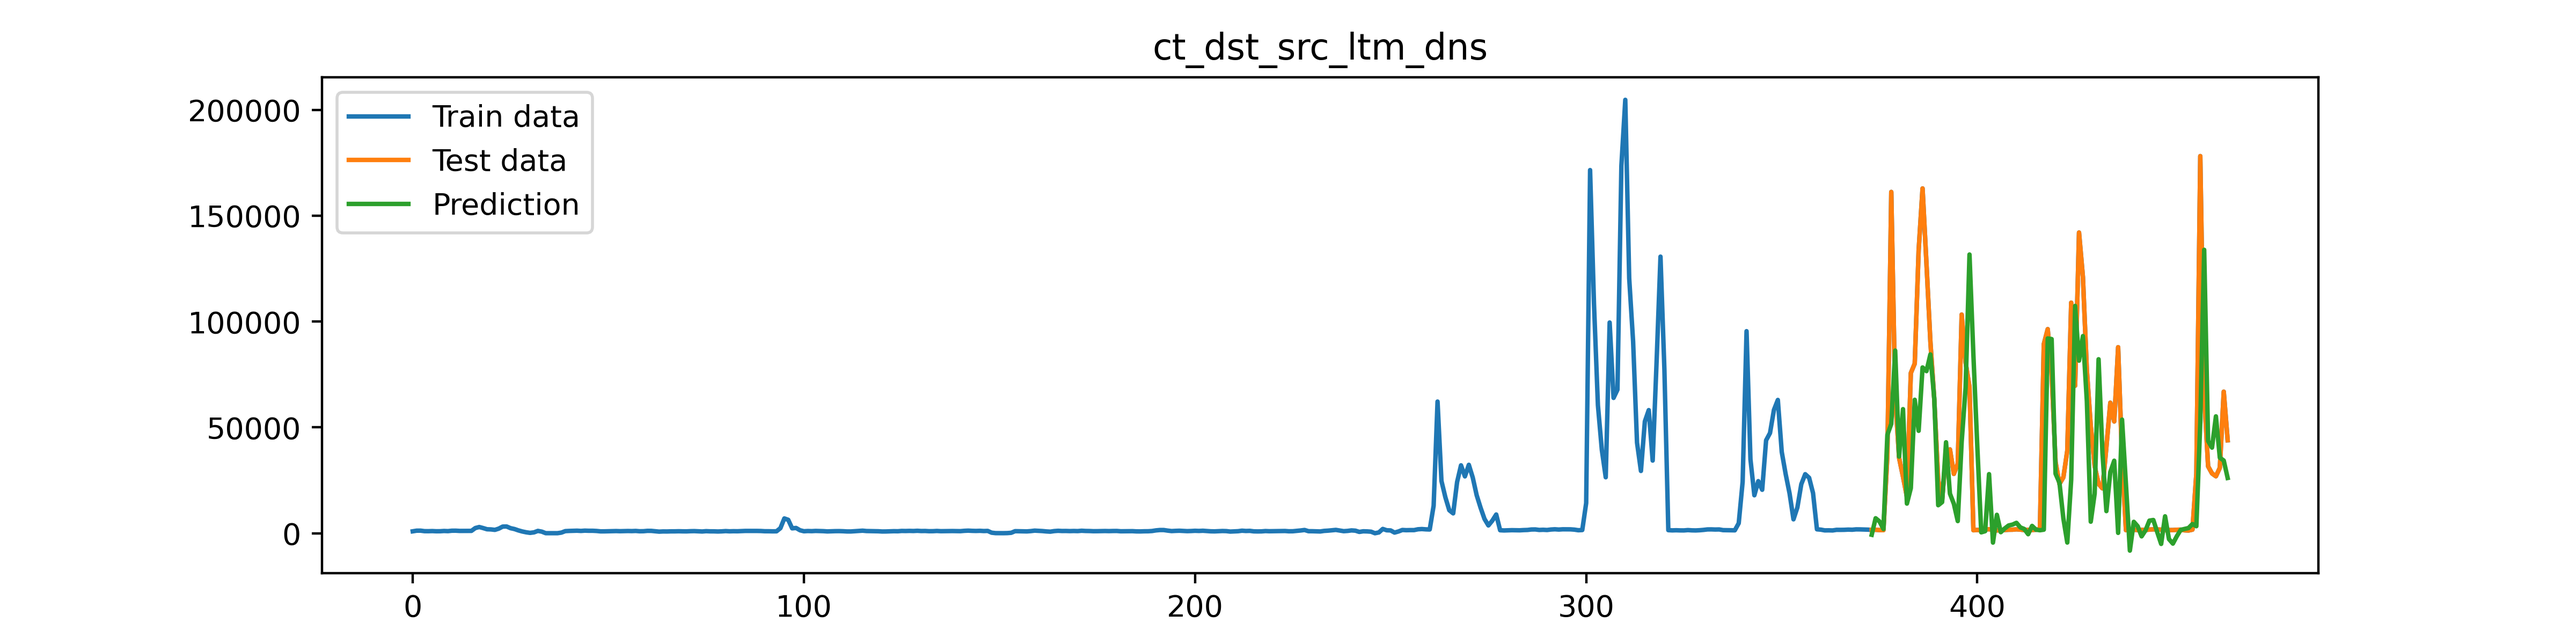
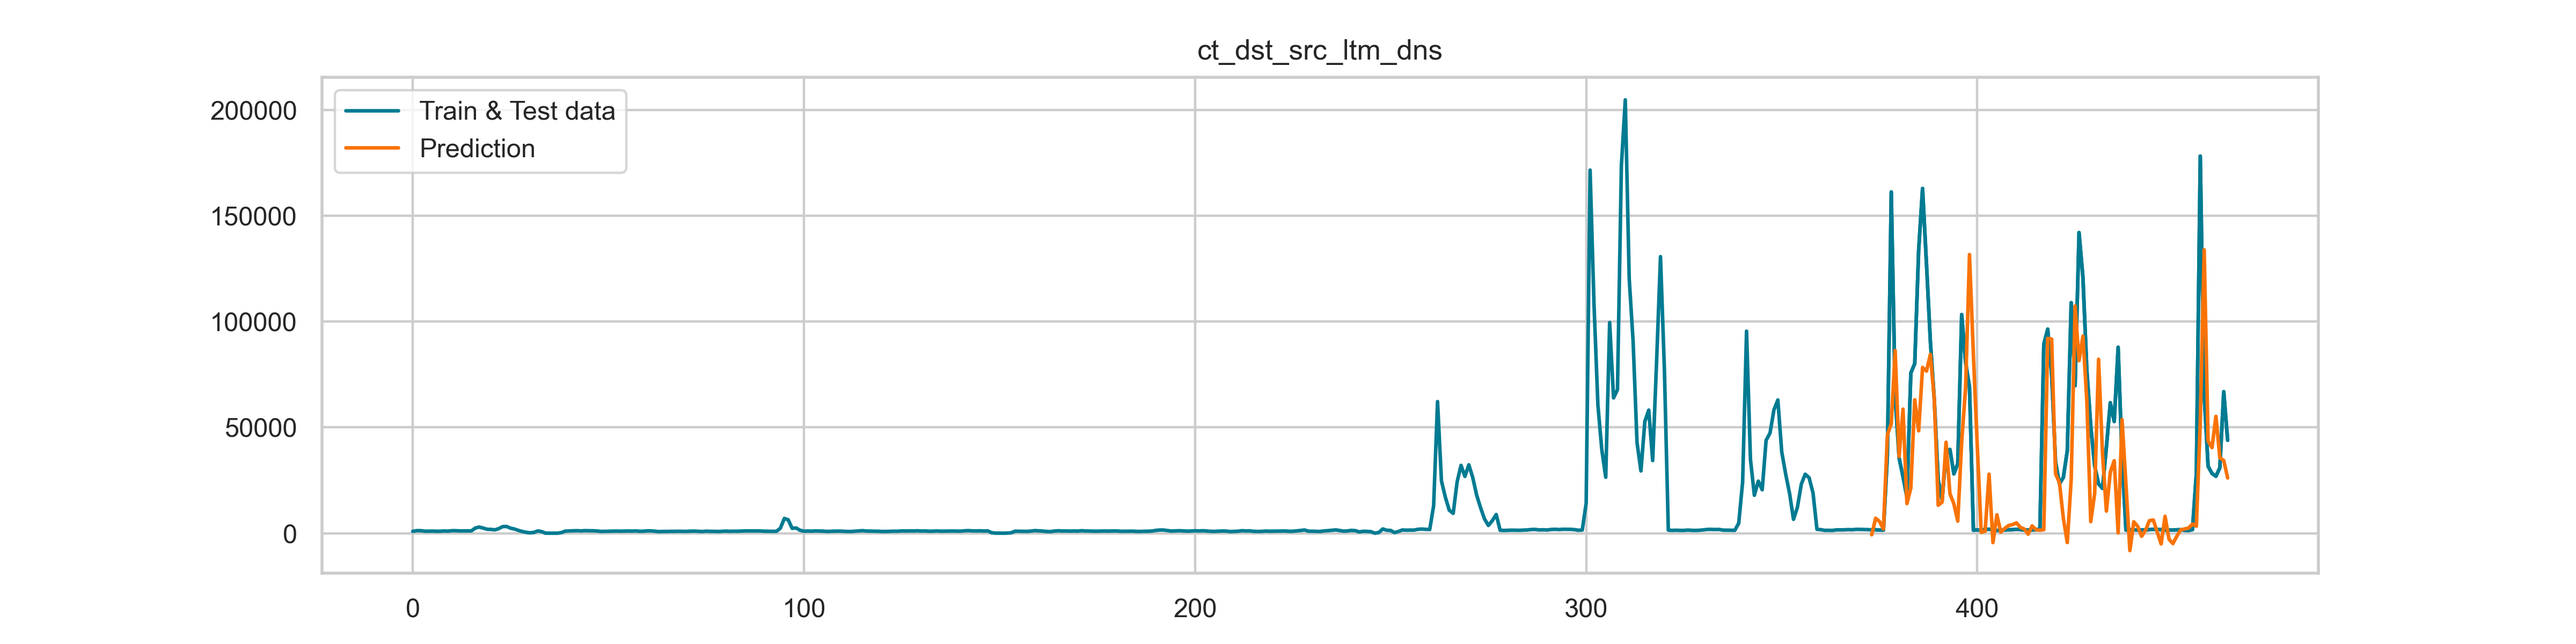
refactor

diff --git a/src/models/predict_model.py b/src/models/predict_model.py
@@ -81,10 +81,10 @@ for i in range(conf.n_featues):
 
     # plot baseline and predictions
     plt.rcParams["figure.figsize"] = (12,3)
-    plt.plot(data_column, label ='Train data')
-    plt.plot(reality_column, label ='Test data') 
-    plt.plot(predict_column, label ='Prediction') 
+    plt.plot(data_column, label ='Train & Test data', color="#017b92")
+    plt.plot(reality_column, color="#017b92") 
+    plt.plot(predict_column, label ='Prediction', color="#f97306") 
     plt.title(extracted_features[i])
     plt.legend()
-    plt.savefig('models/plots/{0}'.format(extracted_features[i]), dpi=400)
+    plt.savefig('models/prediction_plots/{0}'.format(extracted_features[i]), dpi=400)
     plt.close()
